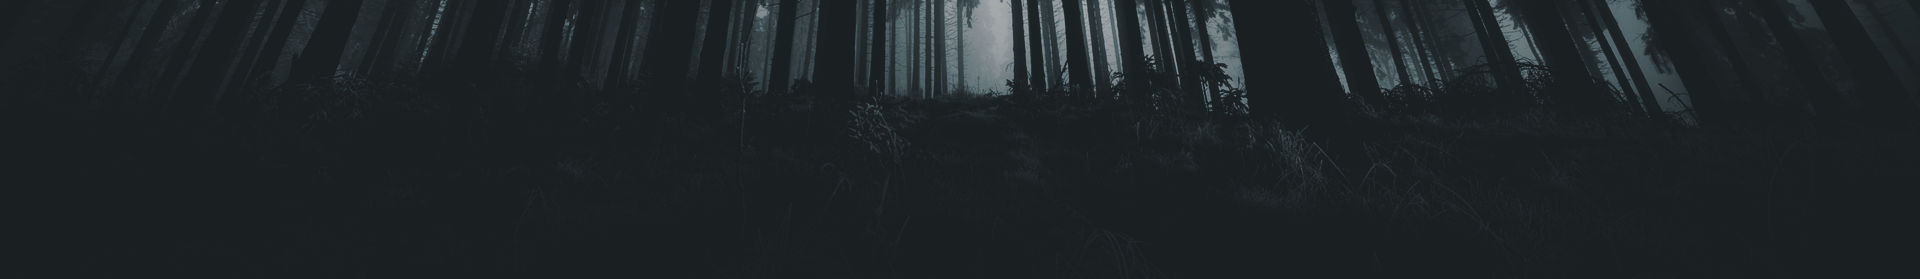
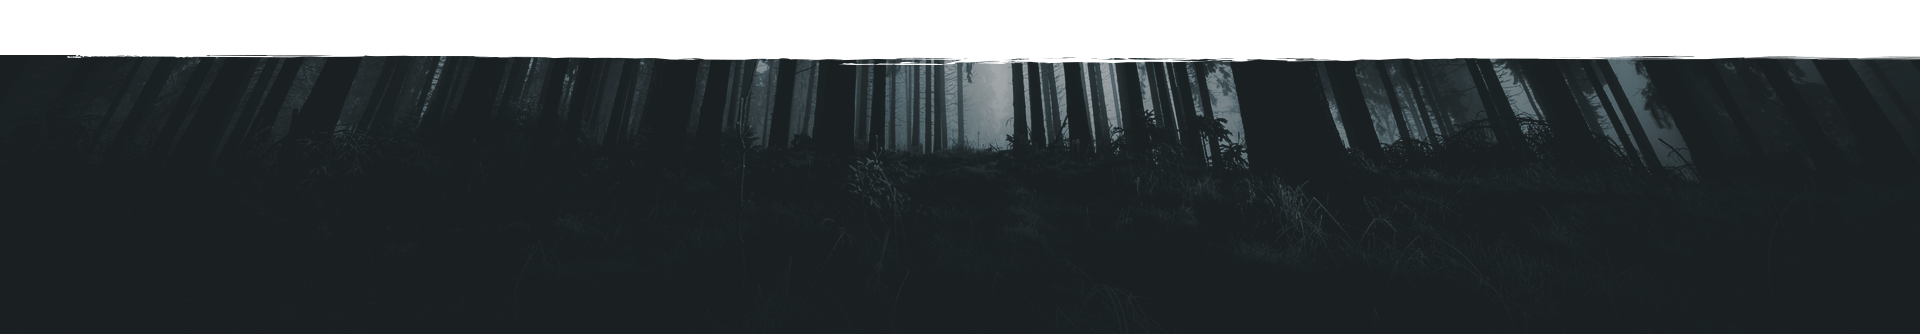
taras

Changed region(s): [[0.0, 0.0, 1.0, 0.4875], [0.6562, 0.4875, 0.6875, 0.5448]]

diff --git a/app/css/main.css b/app/css/main.css
@@ -125,7 +125,8 @@ body textarea:required:valid {
   background-image: url("../img/footer.png");
   background-size: cover;
   min-height: 279px;
-  margin-top: 90px; }
+  margin-top: 90px;
+  padding-top: 20px; }
   .footer p {
     text-transform: uppercase;
     font-size: 17px;

diff --git a/scss/main.scss b/scss/main.scss
@@ -148,6 +148,7 @@ body textarea:required:valid{
   background-size: cover;
   min-height: 279px;
   margin-top: 90px;
+  padding-top: 20px;
   p{
     text-transform: uppercase;
     font-size: 17px;
